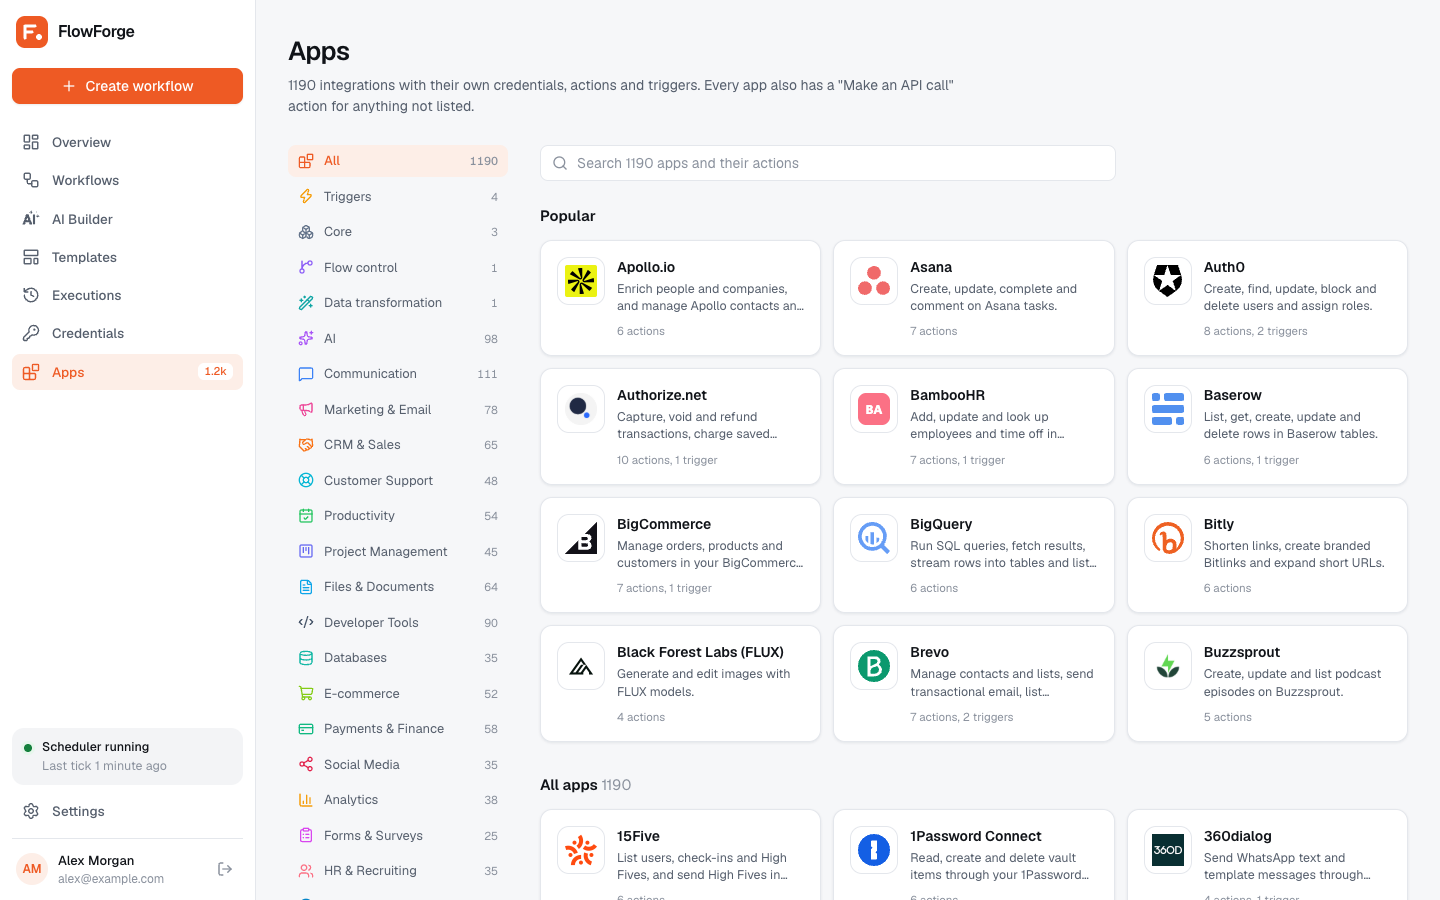
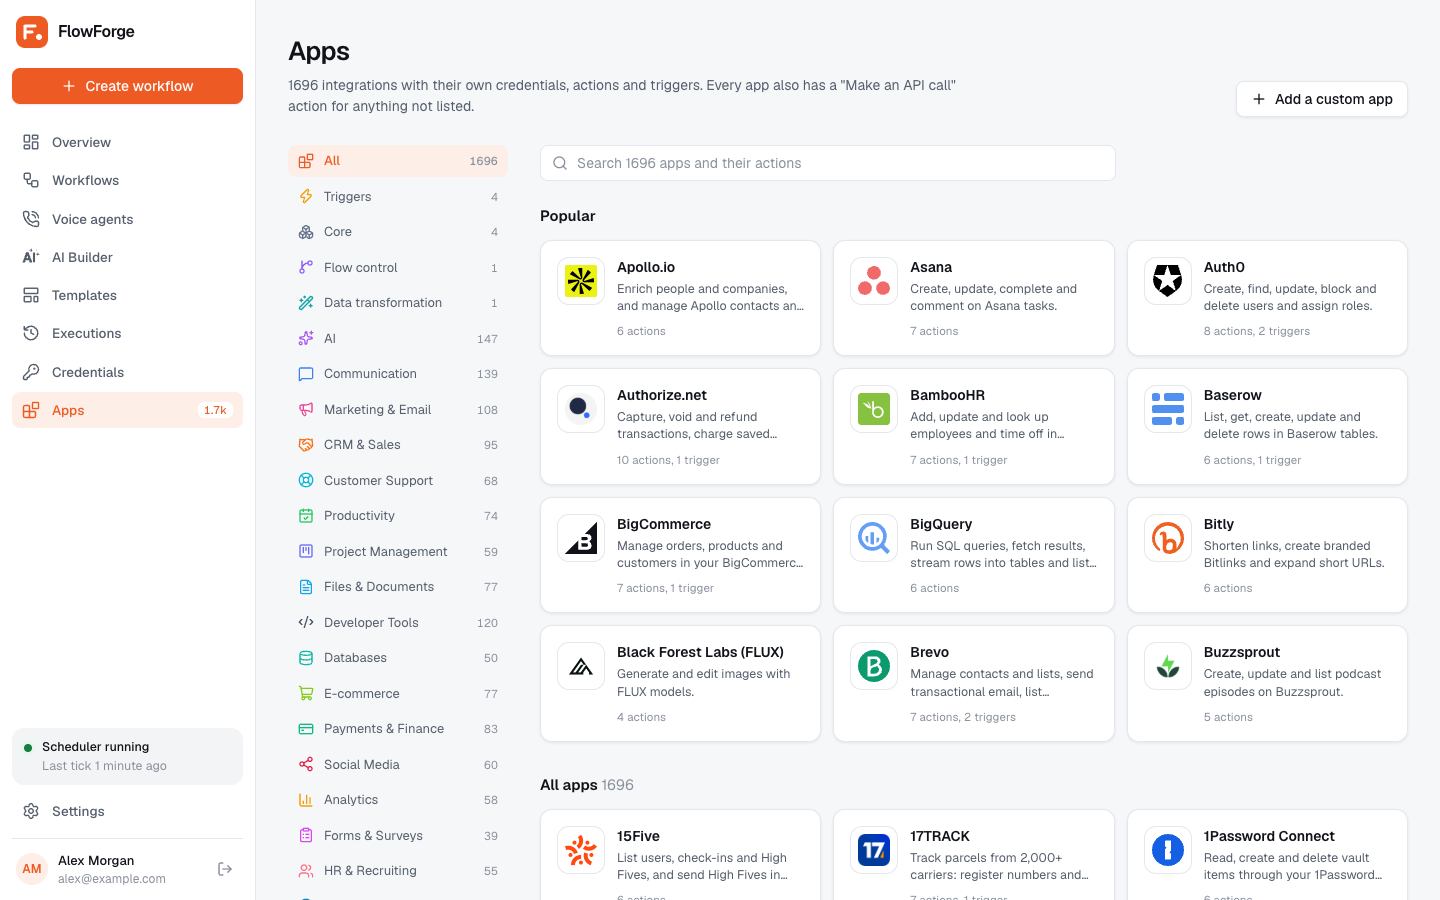
Docs: refreshed screenshots from v1.8.1 and an up-to-date feature list (several flows, canvas menus, ChatGPT-like AI Builder chats, webhook security, signed updates)

diff --git a/docs/index.html b/docs/index.html
@@ -146,20 +146,23 @@
 
 <h2 id="features">Features</h2>
 <ul>
-    <li><strong>Visual workflow builder.</strong> Drag apps onto a canvas, pick a trigger, add steps with "What happens next?", and branch with If/Else and filters.</li>
+    <li><strong>Visual workflow builder.</strong> Drag apps onto a canvas, pick a trigger, add steps with "What happens next?", and branch with If/Else and filters. Double-click to add a step, right-click for more, and copy and paste steps between workflows. <a href="#canvas-tips">More</a></li>
+    <li><strong>Several flows in one workflow.</strong> Give a workflow more than one trigger; each starts its own flow, with its own webhook URL or schedule. <a href="#multiple-flows">More</a></li>
     <li><strong>1,690 apps.</strong> Gmail, Slack, Google Sheets, HubSpot, Shopify, WooCommerce, OpenAI, LinkedIn, WhatsApp, Telegram, Notion, Airtable and many more, plus a generic HTTP request step for anything else.</li>
     <li><strong>AI voice agents.</strong> An AI receptionist or calling agent that answers and makes phone calls, books appointments and saves every call. Test it free in your browser, then connect Vapi or ElevenLabs for real calls. <a href="#voice-agents">More</a></li>
-    <li><strong>AI Builder.</strong> Describe a workflow in plain words and it builds it for you, with the right apps, settings and data links. Works with DeepSeek, Qwen, OpenAI, Anthropic Claude and Google Gemini, using your own API key.</li>
-    <li><strong>Every kind of trigger.</strong> Webhooks, schedules ("every weekday at 9:00"), app triggers that check for new items, manual runs, and an error trigger that starts when another workflow fails.</li>
+    <li><strong>AI Builder.</strong> Describe a workflow in plain words and it builds it for you, with the right apps, settings and data links. Works with DeepSeek, Qwen, OpenAI, Anthropic Claude, Google Gemini or any OpenAI- or Anthropic-compatible API (OpenRouter, Groq, Ollama…), using your own key. Chats work like ChatGPT: a new chat each time, history you can search, rename and delete. <a href="#ai-builder">More</a></li>
+    <li><strong>Custom apps.</strong> When an app isn't in the list, the AI Builder adds it from the app's API docs, or you import its OpenAPI file. <a href="#custom-apps">More</a></li>
+    <li><strong>Import and export.</strong> Move workflows between installs as a file; n8n workflows are rebuilt by the AI Builder. <a href="#import-export">More</a></li>
+    <li><strong>Every kind of trigger.</strong> Webhooks, schedules ("every weekday at 9:00"), app triggers that check for new items, manual runs, an error trigger that starts when another workflow fails, and voice call and booking triggers.</li>
     <li><strong>Step debugger.</strong> Every run keeps each step's input, output and HTTP request, so you can see exactly what happened and retry.</li>
     <li><strong>Automatic retries.</strong> Failed runs try again from the step that failed when an app is down or slow, with an Auto-retry switch for each workflow. Steps can retry, keep going or be turned off. <a href="#retries">More</a></li>
     <li><strong>Built for shared hosting.</strong> No Docker, Node, Redis or Supervisor. Upload a zip, run the setup wizard, add one cron job.</li>
     <li><strong>Team access.</strong> Invite people as admins or members, and choose whether members can view, edit or delete workflows and use the AI Builder.</li>
     <li><strong>MCP server.</strong> Claude Code, Cursor, VS Code and other AI agents can search apps and build, test and run workflows on your FlowForge.</li>
-    <li><strong>One-click updates.</strong> Settings shows when a new version is out; one click downloads, verifies and installs it, keeping your data.</li>
-    <li><strong>Works on phones</strong> like a native app, with light and dark themes.</li>
+    <li><strong>One-click updates.</strong> Settings shows when a new version is out; one click downloads it, checks that it's a signed FlowForge release and installs it, keeping your data.</li>
+    <li><strong>Works on phones</strong> like a native app: a tab bar, sheets you drag down to close, swipeable notifications, and light and dark themes.</li>
     <li><strong>Open source.</strong> Free to use, self-host and modify under the AGPL-3.0 license. The code is on <a href="https://github.com/DeveloperSarim/FlowForge">GitHub</a>.</li>
-    <li><strong>Secure by default.</strong> App credentials and API keys are encrypted, never sent to the browser and masked in run logs.</li>
+    <li><strong>Secure by default.</strong> App credentials and API keys are encrypted, never sent to the browser or the AI, and masked in run logs. Webhooks can check who sent each request, updates are signed, and steps can't reach your server's private network. <a href="#webhook-security">More</a></li>
 </ul>
 
 <div class="pair">
@@ -704,7 +707,7 @@ sudo certbot --nginx -d automation.your-domain.com</code></pre>
     <li>FlowForge downloads the update from GitHub and checks that it is signed with the FlowForge release key and that its checksum matches; otherwise nothing is installed. Then it backs up the current code, swaps in the new version and updates the database. If anything fails, it puts the old version back. It takes about a minute; keep the tab open.</li>
 </ol>
 <p>Your settings, credentials, workflows and run history stay as they are. You can't install an older version over a newer one.</p>
-<figure><img src="assets/img/updates.png" alt="Settings, Updates tab showing a new version with What's new and a Download and install button" loading="lazy" width="890" height="642"></figure>
+<figure><img src="assets/img/updates.png" alt="Settings, Updates tab showing a new version with What's new and a Download and install button" loading="lazy" width="1122" height="611"></figure>
 <h3 id="updating-zip">Updating from a zip file (optional)</h3>
 <p>If your server can't reach GitHub, or you want a specific version, download <code>flowforge-update-x.y.z.zip</code> from <a href="https://github.com/DeveloperSarim/FlowForge/releases">GitHub Releases</a>. In <span class="path"><b>Settings</b><i></i><b>Updates</b></span>, open <strong>Install from a zip file instead</strong> and drop the zip there. It uploads in small pieces, so your host's upload limit doesn't matter.</p>
 <div class="note"><p><strong>Can't open Settings?</strong> You can also update by uploading the full <code>flowforge-install-x.y.z.zip</code> with <code>extract-flowforge.php</code> into the same folder and opening <code>extract-flowforge.php</code>. It keeps your <code>.env</code> and <code>storage</code> folder.</p></div>
